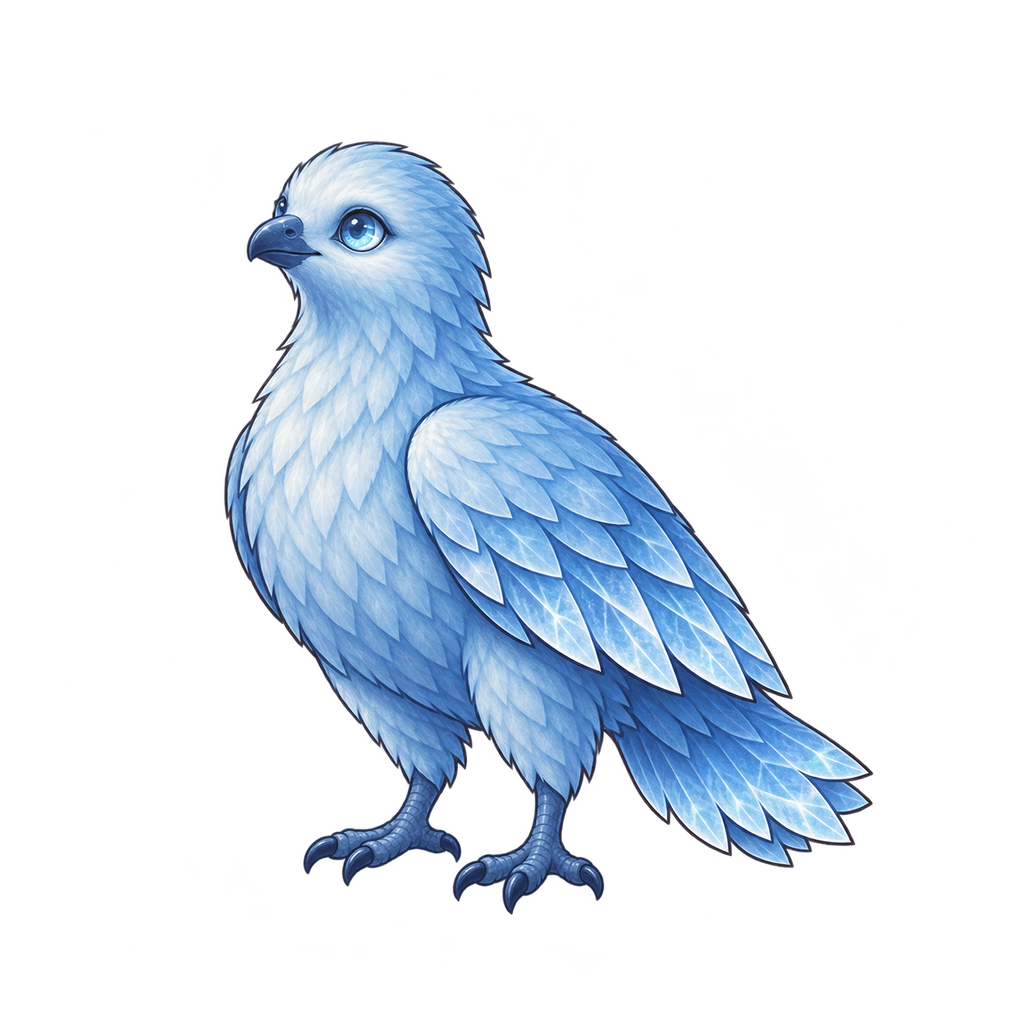
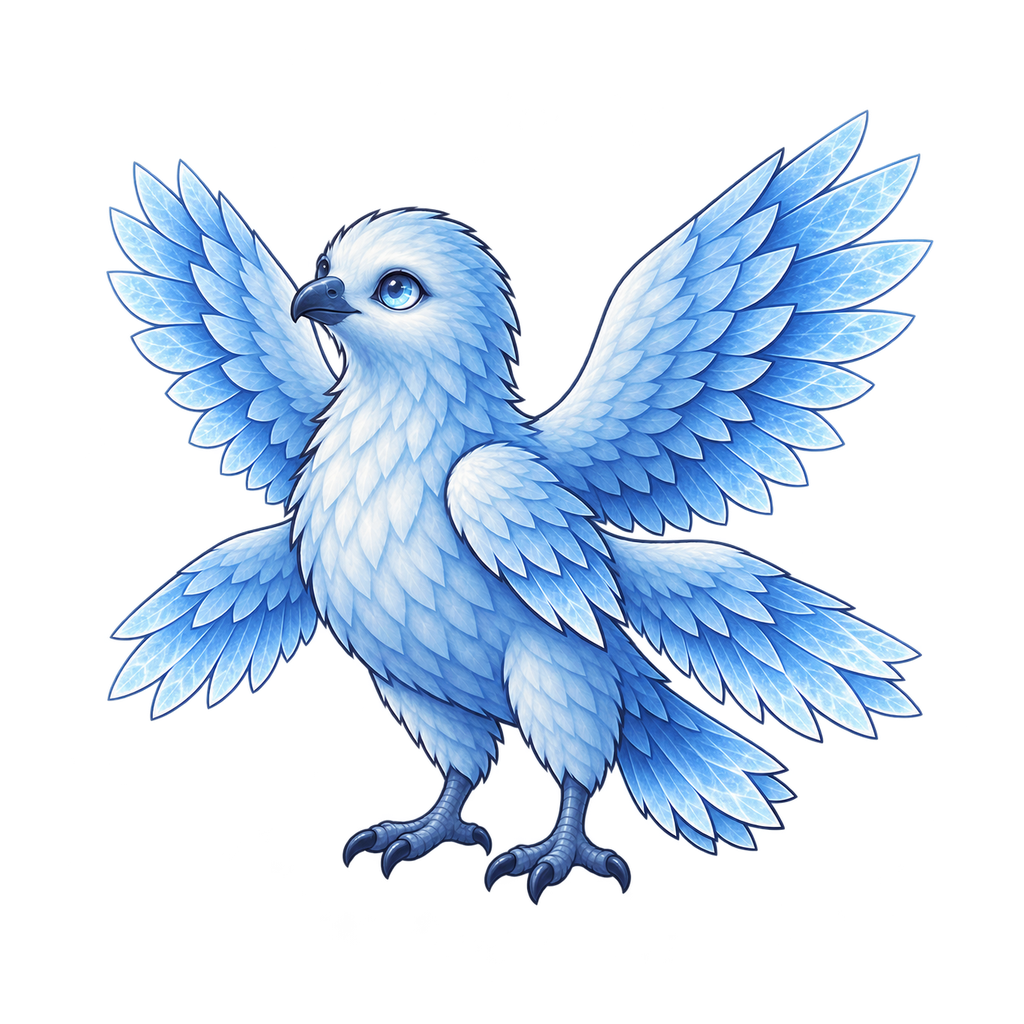
Give Kavari two distinct pairs of wings

diff --git a/art/source/kavari-generation.md b/art/source/kavari-generation.md
@@ -1,5 +1,15 @@
 # Kavari artwork
 
+## Double-wing revision
+
+At the user's direction, the final design now has two distinct wing pairs:
+a larger upper pair and a smaller lower pair. Generated with built-in imagegen,
+then resized and used to regenerate the portrait as described below.
+
+### Double-wing edit prompt
+
+Edit this Kavari bird to have DOUBLE WINGS: exactly FOUR wings, two distinct bilateral pairs. Keep its rounded friendly adult ice-blue head, curious softly luminous eyes, small deep-blue beak, sturdy body, short tail, two feet, crystalline feather tips and hand-painted storybook style. Change the wings and their pose: upper primary pair attaches high on the shoulders and opens gently upward/outward; second smaller pair attaches distinctly lower on the torso and opens gently downward/outward. All FOUR individual wings must be visible and countable, with clear spaces separating upper and lower silhouettes on each side. Each wing has its own root, continuous leading edge and complete feather fan; these are two anatomically separate pairs, not nested feather layers or a tiny inner-wing on one big wing. Balanced relaxed butterfly-like four-wing arrangement, but all wings are feathered bird wings, NOT insect membranes. Three-quarter body view facing left, sufficiently front-facing that both far-side wings are visible. Quietly magical and approachable, not a majestic eagle or heraldic pose. Ice-blue feathers with restrained translucent crystalline edges and delicate frost-vein highlights. No additional limbs, no jewelry, crest, armor, floating effects or scenery. Full body entirely visible, square composition, at least 60px clear margin on all sides. True transparent RGBA background. No text, no ground shadow.
+
 Generated with the built-in imagegen tool for PR #338, following the adult
 description in `canon/creatures.yaml`. The transparent output was resized with
 Pillow to fit within 940 × 940 pixels on the 1024 × 1024 RGBA entity canvas,

diff --git a/wiki/content/creatures/kavari.md b/wiki/content/creatures/kavari.md
@@ -25,7 +25,7 @@ assets:
 ai_context:
   mood: "Rare ice-blue bird found only in Skullwater Cave. A Kavari ages backward into an egg, which releases a two-day snowstorm before an adult emerges."
   themes: "Legendary, Underground, Avian, Rebirth"
-  visual_style: "The adult Kavari stands approximately 3.5 feet tall with a nine-foot wingspan. It is fully feathered and ice blue, with a darker blue beak. Its silhouette is streamlined but slightly bulky and powerfully built, not delicate. Mature wing feathers have a crystalline appearance; as the bird grows younger, its plumage becomes softer and downier white. Keep the bird natural-looking and unornamented: no elaborate crest, jewelry, armor, or excessive decorative ice formations."
+  visual_style: "The adult Kavari stands approximately 3.5 feet tall with a nine-foot wingspan. It is fully feathered and ice blue, with a darker blue beak. It has two distinct pairs of feathered wings: a larger upper pair and a smaller lower pair, each with its own attachment to the torso. Its silhouette is streamlined but slightly bulky and powerfully built, not delicate. Mature wing feathers have a crystalline appearance; as the bird grows younger, its plumage becomes softer and downier white. Keep the bird natural-looking and unornamented: no elaborate crest, jewelry, armor, or excessive decorative ice formations."
   common_encounters: "A mysterious egg found where a legendary bird was expected, early signs of an approaching indoor blizzard, shelter and navigation during a two-day cavebound storm, and an adult emerging when the snow clears."
   lore_highlights: "The youngest bird in the cave may remember its oldest secrets."
   related_entities: "location.skullwater_cave, location.skullwater_cave"
